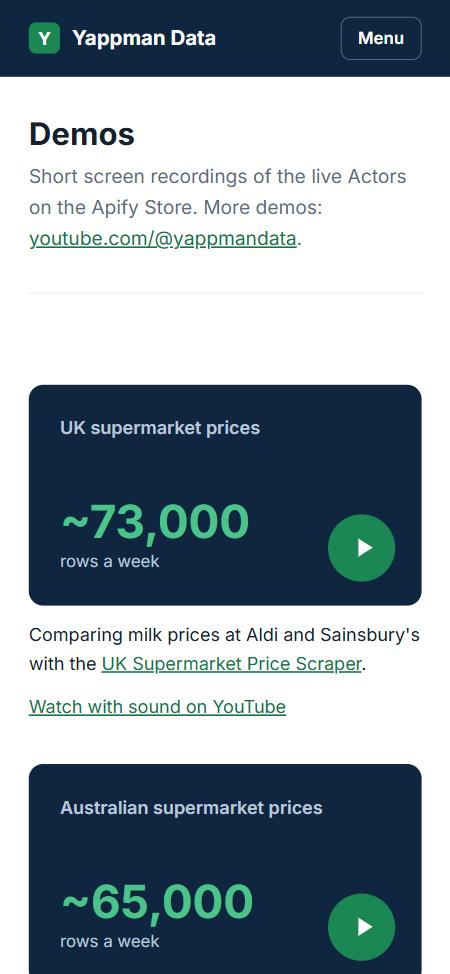
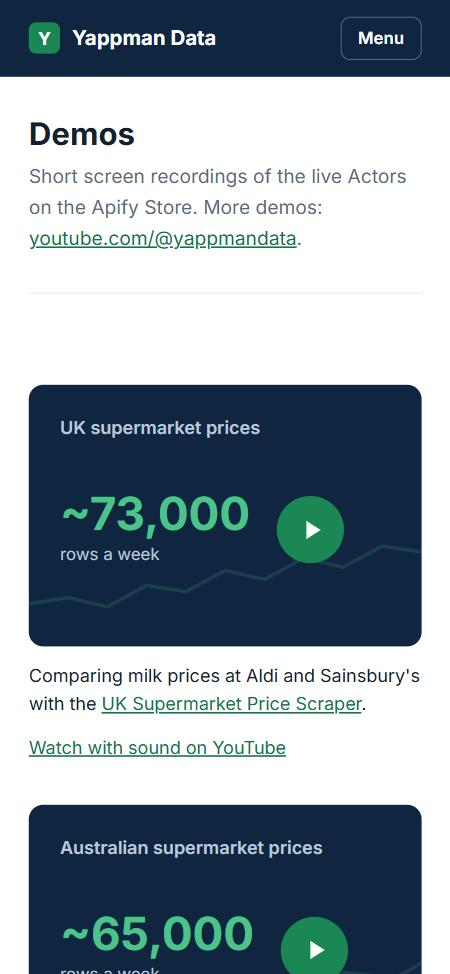
Design pass revisions: Umami (cookieless) tag on every page, privacy wording, centred 3:2 demo posters with sparklines, static schedule text in the trust strip

Changed region(s): [[0.0622, 0.4928, 0.9644, 1.0], [0.1244, 0.4928, 0.56, 0.5852], [0.6222, 0.8932, 0.9022, 1.0]]

diff --git a/demos/index.html b/demos/index.html
@@ -16,6 +16,7 @@
 <meta property="og:url" content="https://data.yappman.com/demos/">
 <meta property="og:image" content="https://data.yappman.com/assets/og.png">
 <meta name="twitter:card" content="summary_large_image">
+<script defer src="https://cloud.umami.is/script.js" data-website-id="c00190ad-2f7f-4304-881a-34c7e1e2b0dc" data-domains="data.yappman.com" data-do-not-track="true"></script>
 </head>
 <body id="top">
 <a class="skip" href="#main">Skip to content</a>
@@ -37,22 +38,22 @@
 <section class="band"><div class="wrap">
   <div class="demo-grid">
     <div class="demo">
-      <a class="poster" href="https://youtu.be/SYVBAlSUBHY" target="_blank" rel="noopener" aria-label="Watch the UK supermarket prices demo on YouTube"><span class="poster-title">UK supermarket prices</span><span class="poster-num"><b>~73,000</b><small>rows a week</small></span><span class="poster-play"><svg viewBox="0 0 24 24" aria-hidden="true"><path d="M8 5v14l11-7z" fill="currentColor"/></svg></span></a>
+      <a class="poster" href="https://youtu.be/SYVBAlSUBHY" target="_blank" rel="noopener" aria-label="Watch the UK supermarket prices demo on YouTube"><svg class="spark" viewBox="0 0 300 100" preserveAspectRatio="none" aria-hidden="true"><polyline points="0,72 30,68 60,74 90,60 120,64 150,50 180,56 210,42 240,48 270,34 300,38" fill="none" stroke="currentColor" stroke-width="3" stroke-linejoin="round" stroke-linecap="round" vector-effect="non-scaling-stroke"/></svg><span class="poster-title">UK supermarket prices</span><span class="poster-mid"><span class="poster-num"><b>~73,000</b><small>rows a week</small></span><span class="poster-play"><svg viewBox="0 0 24 24" aria-hidden="true"><path d="M8 5v14l11-7z" fill="currentColor"/></svg></span></span></a>
       <p>Comparing milk prices at Aldi and Sainsbury's with the <a href="https://apify.com/yappman/uk-supermarket-price-scraper">UK Supermarket Price Scraper</a>.</p>
       <p><a href="https://youtu.be/SYVBAlSUBHY" target="_blank" rel="noopener">Watch with sound on YouTube</a></p>
     </div>
     <div class="demo">
-      <a class="poster" href="https://youtu.be/IrLdJdF8pBY" target="_blank" rel="noopener" aria-label="Watch the Australian supermarket prices demo on YouTube"><span class="poster-title">Australian supermarket prices</span><span class="poster-num"><b>~65,000</b><small>rows a week</small></span><span class="poster-play"><svg viewBox="0 0 24 24" aria-hidden="true"><path d="M8 5v14l11-7z" fill="currentColor"/></svg></span></a>
+      <a class="poster" href="https://youtu.be/IrLdJdF8pBY" target="_blank" rel="noopener" aria-label="Watch the Australian supermarket prices demo on YouTube"><svg class="spark" viewBox="0 0 300 100" preserveAspectRatio="none" aria-hidden="true"><polyline points="0,64 40,68 80,52 120,58 160,44 200,50 240,38 280,42 300,32" fill="none" stroke="currentColor" stroke-width="3" stroke-linejoin="round" stroke-linecap="round" vector-effect="non-scaling-stroke"/></svg><span class="poster-title">Australian supermarket prices</span><span class="poster-mid"><span class="poster-num"><b>~65,000</b><small>rows a week</small></span><span class="poster-play"><svg viewBox="0 0 24 24" aria-hidden="true"><path d="M8 5v14l11-7z" fill="currentColor"/></svg></span></span></a>
       <p>Comparing milk prices at Coles, Woolworths and Aldi with the <a href="https://apify.com/yappman/au-supermarket-price-scraper">Australia Supermarket Price Scraper</a>.</p>
       <p><a href="https://youtu.be/IrLdJdF8pBY" target="_blank" rel="noopener">Watch with sound on YouTube</a></p>
     </div>
     <div class="demo">
-      <a class="poster" href="https://youtu.be/XumDImDl4kE" target="_blank" rel="noopener" aria-label="Watch the UK property listings demo on YouTube"><span class="poster-title">UK property listings</span><span class="poster-num"><b>1995</b><small>sold prices go back to</small></span><span class="poster-play"><svg viewBox="0 0 24 24" aria-hidden="true"><path d="M8 5v14l11-7z" fill="currentColor"/></svg></span></a>
+      <a class="poster" href="https://youtu.be/XumDImDl4kE" target="_blank" rel="noopener" aria-label="Watch the UK property listings demo on YouTube"><span class="poster-title">UK property listings</span><span class="poster-mid"><span class="poster-num"><b>1995</b><small>sold prices go back to</small></span><span class="poster-play"><svg viewBox="0 0 24 24" aria-hidden="true"><path d="M8 5v14l11-7z" fill="currentColor"/></svg></span></span></a>
       <p>Homes for sale in Leeds from Rightmove and Zoopla, with the <a href="https://apify.com/yappman/uk-property-listings">UK Property Listings</a> Actor on Apify. The weekly property series is planned for Q4 2026.</p>
       <p><a href="https://youtu.be/XumDImDl4kE" target="_blank" rel="noopener">Watch with sound on YouTube</a></p>
     </div>
     <div class="demo">
-      <a class="poster" href="https://youtu.be/sURf-8czh8g" target="_blank" rel="noopener" aria-label="Watch the Hotel prices demo on YouTube"><span class="poster-title">Hotel prices</span><span class="poster-num"><b>50</b><small>cities in the weekly tracker</small></span><span class="poster-play"><svg viewBox="0 0 24 24" aria-hidden="true"><path d="M8 5v14l11-7z" fill="currentColor"/></svg></span></a>
+      <a class="poster" href="https://youtu.be/sURf-8czh8g" target="_blank" rel="noopener" aria-label="Watch the Hotel prices demo on YouTube"><span class="poster-title">Hotel prices</span><span class="poster-mid"><span class="poster-num"><b>50</b><small>cities in the weekly tracker</small></span><span class="poster-play"><svg viewBox="0 0 24 24" aria-hidden="true"><path d="M8 5v14l11-7z" fill="currentColor"/></svg></span></span></a>
       <p>Lisbon hotels for a 2-night stay, 5 results, with the <a href="https://apify.com/yappman/google-hotels-prices">Google Hotels Price Scraper</a> on Apify.</p>
       <p><a href="https://youtu.be/sURf-8czh8g" target="_blank" rel="noopener">Watch with sound on YouTube</a></p>
     </div>

diff --git a/privacy/index.html b/privacy/index.html
@@ -16,6 +16,7 @@
 <meta property="og:url" content="https://data.yappman.com/privacy/">
 <meta property="og:image" content="https://data.yappman.com/assets/og.png">
 <meta name="twitter:card" content="summary_large_image">
+<script defer src="https://cloud.umami.is/script.js" data-website-id="c00190ad-2f7f-4304-881a-34c7e1e2b0dc" data-domains="data.yappman.com" data-do-not-track="true"></script>
 </head>
 <body id="top">
 <a class="skip" href="#main">Skip to content</a>
@@ -39,7 +40,7 @@
 
 <h2>What we collect, and why</h2>
 <ul>
-  <li><strong>Cookies and analytics.</strong> This site sets no cookies and does not currently run website analytics. If we add analytics, we will update this page first and ask for consent where the law requires it.</li>
+  <li><strong>Cookies and analytics.</strong> This site sets no cookies. We use cookieless analytics (Umami) that counts pages and referrers without identifying you. Umami records page views, referring sites, browser, operating system, device type and country, and describes its data as anonymous: it identifies a visit only by an anonymous session identifier and never tracks you across websites. We honour your browser&rsquo;s Do Not Track setting. Our lawful basis is legitimate interests (understanding how the site is used so we can improve it). See <a href="https://umami.is/privacy">Umami&rsquo;s privacy information</a>.</li>
   <li><strong>The announcement bar.</strong> If you dismiss it, we remember that for your visit in your browser&rsquo;s session storage. It never leaves your browser and is cleared when you close the tab.</li>
   <li><strong>Server logs.</strong> The site is hosted on GitHub Pages, which, like any web host, receives your IP address and browser details when you load a page. We do not have access to these logs for our own use. See <a href="https://docs.github.com/en/site-policy/privacy-policies/github-general-privacy-statement">GitHub&rsquo;s privacy statement</a>.</li>
   <li><strong>The Shelf-Price Index page and the home page.</strong> They load the published index data directly from Apify&rsquo;s servers (api.apify.com), so Apify also receives your IP address when you view them. See <a href="https://docs.apify.com/legal/privacy-policy">Apify&rsquo;s privacy policy</a>.</li>
@@ -47,13 +48,13 @@
 </ul>
 
 <h2>Who receives data</h2>
-<p>GitHub (hosting) and Apify (index data), each acting as a service provider as described above. We do not sell personal data.</p>
+<p>GitHub (hosting), Apify (index data) and Umami (analytics), each acting as a service provider as described above. We do not sell personal data.</p>
 
 <h2>How long we keep it</h2>
-<p>Emails are kept for as long as needed for the enquiry and our records, then deleted.</p>
+<p>Analytics data is kept for up to 6 months, the retention of our current Umami plan. Emails are kept for as long as needed for the enquiry and our records, then deleted.</p>
 
 <h2>Your rights</h2>
-<p>Under UK data protection law you may ask for access to, correction or deletion of your personal data, or object to processing based on legitimate interests. Email <a href="mailto:info@yappman.com">info@yappman.com</a>. You may also complain to the Information Commissioner&rsquo;s Office at <a href="https://ico.org.uk/">ico.org.uk</a>.</p>
+<p>You can switch analytics off by turning on Do Not Track in your browser. Under UK data protection law you may ask for access to, correction or deletion of your personal data, or object to processing based on legitimate interests. Email <a href="mailto:info@yappman.com">info@yappman.com</a>. You may also complain to the Information Commissioner&rsquo;s Office at <a href="https://ico.org.uk/">ico.org.uk</a>.</p>
 
 <h2>Changes</h2>
 <p>We will update this page if what we collect changes. Last updated 13 October 2026.</p>

diff --git a/assets/site.css b/assets/site.css
@@ -241,12 +241,12 @@ tbody tr.skipped td{color:var(--muted);font-style:italic}
 
 /* demo posters */
 .demo-grid{display:grid;grid-template-columns:repeat(auto-fit,minmax(min(420px,100%),1fr));gap:24px}
-.poster{position:relative;display:flex;flex-direction:column;justify-content:space-between;aspect-ratio:16/9;background:var(--navy);color:#fff;border-radius:12px;padding:24px 26px;text-decoration:none;overflow:hidden}
+.poster{position:relative;display:flex;flex-direction:column;justify-content:flex-start;aspect-ratio:3/2;background:var(--navy);color:#fff;border-radius:12px;padding:24px 26px;text-decoration:none;overflow:hidden}
 .poster:hover{background:var(--navy-2)}
 .poster-title{font-size:15px;font-weight:600;color:var(--on-navy-muted)}
 .poster-num b{display:block;font-size:46px;line-height:1.05;font-weight:700;color:var(--mint)}
 .poster-num small{font-size:14px;color:var(--on-navy-muted)}
-.poster-play{position:absolute;right:22px;bottom:20px;width:56px;height:56px;border-radius:50%;background:var(--brand);color:#fff;display:flex;align-items:center;justify-content:center}
+.poster-play{flex:none;width:56px;height:56px;border-radius:50%;background:var(--brand);color:#fff;display:flex;align-items:center;justify-content:center}
 .poster-play svg{width:26px;height:26px;margin-left:3px}
 .demo p{font-size:15px}
 .demo .poster{margin-bottom:12px}
@@ -276,3 +276,8 @@ tbody tr.skipped td{color:var(--muted);font-style:italic}
   .pcard.wide .pnum,.pcard.wide .plabel{text-align:left}
   .poster-num b{font-size:38px}
 }
+
+.poster-title,.poster-mid{position:relative;z-index:1}
+.poster-mid{margin:auto 0;display:flex;align-items:center;gap:22px}
+.poster .spark{position:absolute;left:0;bottom:0;width:100%;height:58%;opacity:.16;color:var(--mint);pointer-events:none}
+.trust-text{margin:0;font-size:17px;max-width:760px}

diff --git a/index.html b/index.html
@@ -16,6 +16,7 @@
 <meta property="og:url" content="https://data.yappman.com/">
 <meta property="og:image" content="https://data.yappman.com/assets/og.png">
 <meta name="twitter:card" content="summary_large_image">
+<script defer src="https://cloud.umami.is/script.js" data-website-id="c00190ad-2f7f-4304-881a-34c7e1e2b0dc" data-domains="data.yappman.com" data-do-not-track="true"></script>
 </head>
 <body id="top">
 <a class="skip" href="#main">Skip to content</a>
@@ -103,13 +104,8 @@
 </div></section>
 
 <section class="trust" id="trust"><div class="wrap">
-  <h2>Last successful run</h2>
-  <div class="trust-grid">
-    <div class="trust-item"><div class="tl">UK grocery</div><div class="tv">{{uk_last_run}}</div></div>
-    <div class="trust-item"><div class="tl">AU grocery</div><div class="tv">{{au_last_run}}</div></div>
-    <div class="trust-item"><div class="tl">Hotels</div><div class="tv">{{hotels_last_run}}</div></div>
-    <div class="trust-item"><div class="tl">Property</div><div class="tv">{{property_last_run}}</div></div>
-  </div>
+  <h2>Checked on a schedule</h2>
+  <p class="trust-text">Checks run daily: UK 05:30 UTC, Property 03:15 London; weekly: AU Wednesday, Hotels Sunday — measured results on the <a href="/data-quality/">Data quality</a> page.</p>
   <div class="trust-links"><a href="/data-quality/">Data quality</a><a href="/notices/">Notices</a><a href="https://creativecommons.org/licenses/by/4.0/">Licence: CC BY 4.0</a></div>
 </div></section>
 

diff --git a/assets/site.js b/assets/site.js
@@ -1,4 +1,4 @@
-// Yappman Data: small vanilla helpers. No cookies, no analytics, no third-party requests.
+// Yappman Data: small vanilla helpers. No cookies.
 (function () {
   // Menu toggle below 768px
   var nav = document.querySelector('nav[aria-label="Main"]');
@@ -29,4 +29,5 @@
     var moved = { '#demos': '/demos/', '#notices': '/notices/', '#sample': '/methodology/#sample', '#fields': '/methodology/#fields', '#series': '/methodology/#series' };
     if (moved[location.hash]) location.replace(moved[location.hash]);
   }
+
 })();

diff --git a/404.html b/404.html
@@ -10,6 +10,7 @@
 <link rel="stylesheet" href="/assets/site.css">
 <link rel="preload" href="/assets/fonts/inter-latin-400.woff2" as="font" type="font/woff2" crossorigin>
 <link rel="preload" href="/assets/fonts/inter-latin-700.woff2" as="font" type="font/woff2" crossorigin>
+<script defer src="https://cloud.umami.is/script.js" data-website-id="c00190ad-2f7f-4304-881a-34c7e1e2b0dc" data-domains="data.yappman.com" data-do-not-track="true"></script>
 </head>
 <body id="top">
 <a class="skip" href="#main">Skip to content</a>

diff --git a/notices/default-retailers/index.html b/notices/default-retailers/index.html
@@ -16,6 +16,7 @@
 <meta property="og:url" content="https://data.yappman.com/notices/default-retailers/">
 <meta property="og:image" content="https://data.yappman.com/assets/og.png">
 <meta name="twitter:card" content="summary_large_image">
+<script defer src="https://cloud.umami.is/script.js" data-website-id="c00190ad-2f7f-4304-881a-34c7e1e2b0dc" data-domains="data.yappman.com" data-do-not-track="true"></script>
 </head>
 <body id="top">
 <a class="skip" href="#main">Skip to content</a>

diff --git a/notices/sold-prices-0-3/index.html b/notices/sold-prices-0-3/index.html
@@ -16,6 +16,7 @@
 <meta property="og:url" content="https://data.yappman.com/notices/sold-prices-0-3/">
 <meta property="og:image" content="https://data.yappman.com/assets/og.png">
 <meta name="twitter:card" content="summary_large_image">
+<script defer src="https://cloud.umami.is/script.js" data-website-id="c00190ad-2f7f-4304-881a-34c7e1e2b0dc" data-domains="data.yappman.com" data-do-not-track="true"></script>
 </head>
 <body id="top">
 <a class="skip" href="#main">Skip to content</a>

diff --git a/notices/w41-skipped/index.html b/notices/w41-skipped/index.html
@@ -16,6 +16,7 @@
 <meta property="og:url" content="https://data.yappman.com/notices/w41-skipped/">
 <meta property="og:image" content="https://data.yappman.com/assets/og.png">
 <meta name="twitter:card" content="summary_large_image">
+<script defer src="https://cloud.umami.is/script.js" data-website-id="c00190ad-2f7f-4304-881a-34c7e1e2b0dc" data-domains="data.yappman.com" data-do-not-track="true"></script>
 </head>
 <body id="top">
 <a class="skip" href="#main">Skip to content</a>

diff --git a/notices/matchkey/index.html b/notices/matchkey/index.html
@@ -16,6 +16,7 @@
 <meta property="og:url" content="https://data.yappman.com/notices/matchkey/">
 <meta property="og:image" content="https://data.yappman.com/assets/og.png">
 <meta name="twitter:card" content="summary_large_image">
+<script defer src="https://cloud.umami.is/script.js" data-website-id="c00190ad-2f7f-4304-881a-34c7e1e2b0dc" data-domains="data.yappman.com" data-do-not-track="true"></script>
 </head>
 <body id="top">
 <a class="skip" href="#main">Skip to content</a>

diff --git a/data-quality/index.html b/data-quality/index.html
@@ -16,6 +16,7 @@
 <meta property="og:url" content="https://data.yappman.com/data-quality/">
 <meta property="og:image" content="https://data.yappman.com/assets/og.png">
 <meta name="twitter:card" content="summary_large_image">
+<script defer src="https://cloud.umami.is/script.js" data-website-id="c00190ad-2f7f-4304-881a-34c7e1e2b0dc" data-domains="data.yappman.com" data-do-not-track="true"></script>
 </head>
 <body id="top">
 <a class="skip" href="#main">Skip to content</a>

diff --git a/methodology/index.html b/methodology/index.html
@@ -16,6 +16,7 @@
 <meta property="og:url" content="https://data.yappman.com/methodology/">
 <meta property="og:image" content="https://data.yappman.com/assets/og.png">
 <meta name="twitter:card" content="summary_large_image">
+<script defer src="https://cloud.umami.is/script.js" data-website-id="c00190ad-2f7f-4304-881a-34c7e1e2b0dc" data-domains="data.yappman.com" data-do-not-track="true"></script>
 </head>
 <body id="top">
 <a class="skip" href="#main">Skip to content</a>
